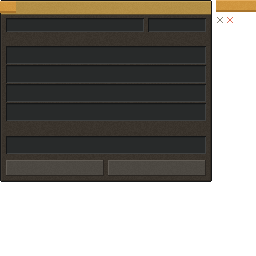
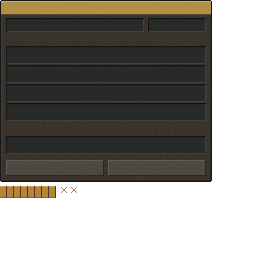
Trade Bot: picking fixes from play-testing
- Chests no longer open while picking: the server takes the picker's
  clicks over (TradeBotPicking) instead of relying on a client-side cancel
- A second click makes a container the output only if there isn't one;
  otherwise it unlinks
- Charge gauge: sprites moved below the screen on the sheet (the fill had
  wrapped onto the brass band), segmented fill, percentage in the status line

diff --git a/design/gui/trade-bot-station.gui.js b/design/gui/trade-bot-station.gui.js
@@ -72,12 +72,18 @@ L.rows.forEach(recess);
 recess(L.output);
 L.buttons.forEach(button);
 
-// the sprites the screen draws on top, to the right of the background: the charge gauge fill (amber, 56 x 12),
-// and the unlink cross (8 x 8, normal and hovered)
-for (let j = 0; j < 12; j++) for (let i = 0; i < 56; i++) set(W + 4 + i, j, j === 0 ? '#e6b062' : j > 9 ? '#a8742c' : pick(['#d0963f', '#d39a43', '#cf943d']));
+// the sprites the screen draws on top, below the screen on the sheet (y = H + 4): the charge gauge fill (56 x 12,
+// segmented muted amber), and the unlink cross (8 x 8, normal and hovered)
+const SY = H + 4;
+const GAUGE_FILL = ['#b88437', '#bc883a', '#b5813a'], GAUGE_TOP = '#d0a15a', GAUGE_BOTTOM = '#8a6229', GAUGE_GAP = '#4a3a22';
+for (let j = 0; j < 12; j++)
+  for (let i = 0; i < 56; i++) {
+    const gap = i % 7 === 6; // eight segments
+    set(i, SY + j, gap ? GAUGE_GAP : j === 0 ? GAUGE_TOP : j === 11 ? GAUGE_BOTTOM : pick(GAUGE_FILL));
+  }
 const cross = (ox, oy, c) => { for (let k = 1; k < 7; k++) { set(ox + k, oy + k, c); set(ox + 7 - k, oy + k, c); } };
-cross(W + 4, 16, '#8a8478');
-cross(W + 14, 16, '#e0705a');
+cross(60, SY, '#8a8478');
+cross(70, SY, '#e0705a');
 
 const out = process.argv[2] || path.join(__dirname, 'trade_bot_station.png');
 const crcT = new Uint32Array(256).map((_, n) => { let c = n; for (let k = 0; k < 8; k++) c = c & 1 ? 0xedb88320 ^ (c >>> 1) : c >>> 1; return c >>> 0; });

diff --git a/src/main/java/com/comedymonkey/createaddons/content/tradebot/TradeBotPicking.java b/src/main/java/com/comedymonkey/createaddons/content/tradebot/TradeBotPicking.java
@@ -1,0 +1,109 @@
+package com.comedymonkey.createaddons.content.tradebot;
+
+import java.util.HashMap;
+import java.util.Map;
+import java.util.UUID;
+
+import org.jetbrains.annotations.Nullable;
+
+import com.comedymonkey.createaddons.config.CMConfig;
+
+import net.minecraft.core.BlockPos;
+import net.minecraft.network.chat.Component;
+import net.minecraft.resources.ResourceKey;
+import net.minecraft.server.level.ServerPlayer;
+import net.minecraft.world.InteractionHand;
+import net.minecraft.world.InteractionResult;
+import net.minecraft.world.level.Level;
+import net.neoforged.neoforge.event.entity.player.PlayerEvent;
+import net.neoforged.neoforge.event.entity.player.PlayerInteractEvent;
+
+/**
+ * Who is picking containers for which station, on the server (D61). While a player picks, their clicks on blocks
+ * are taken over here: right-click cycles the container's link, left-click unlinks it, so chests never open and
+ * nothing gets broken. Sneak-right-click or the station itself finishes; so do leaving his range, changing
+ * dimension, three idle minutes or logging out. (Cancelling only on the client isn't enough: the click still
+ * reaches the server.)
+ */
+public final class TradeBotPicking {
+	private static final long TIMEOUT_TICKS = 20 * 60 * 3;
+
+	private record Picker(BlockPos station, ResourceKey<Level> dimension, long lastUsed) {}
+
+	private static final Map<UUID, Picker> PICKERS = new HashMap<>();
+
+	private TradeBotPicking() {}
+
+	public static void start(ServerPlayer player, BlockPos station) {
+		PICKERS.put(player.getUUID(), new Picker(station.immutable(), player.level().dimension(), player.level().getGameTime()));
+	}
+
+	public static void stop(ServerPlayer player) {
+		PICKERS.remove(player.getUUID());
+	}
+
+	public static void clear() {
+		PICKERS.clear();
+	}
+
+	public static void onLogout(PlayerEvent.PlayerLoggedOutEvent event) {
+		PICKERS.remove(event.getEntity().getUUID());
+	}
+
+	public static void onRightClickBlock(PlayerInteractEvent.RightClickBlock event) {
+		if (!(event.getEntity() instanceof ServerPlayer player))
+			return;
+		Picker picker = current(player);
+		if (picker == null)
+			return;
+		event.setCanceled(true);
+		event.setCancellationResult(InteractionResult.SUCCESS);
+		if (event.getHand() != InteractionHand.MAIN_HAND)
+			return; // the event comes once per hand; act on one
+		touch(player, picker);
+		if (player.isShiftKeyDown() || event.getPos().equals(picker.station())) {
+			stop(player);
+			player.displayClientMessage(Component.translatable("message.comedymonkeysaddons.trade_bot.picking_done"), true);
+			return;
+		}
+		if (player.level().getBlockEntity(picker.station()) instanceof TradeBotStationBlockEntity station)
+			station.pick(player, event.getPos());
+	}
+
+	public static void onLeftClickBlock(PlayerInteractEvent.LeftClickBlock event) {
+		if (!(event.getEntity() instanceof ServerPlayer player))
+			return;
+		Picker picker = current(player);
+		if (picker == null)
+			return;
+		event.setCanceled(true);
+		if (event.getAction() != PlayerInteractEvent.LeftClickBlock.Action.START)
+			return;
+		touch(player, picker);
+		if (player.level().getBlockEntity(picker.station()) instanceof TradeBotStationBlockEntity station
+			&& station.roleOf(event.getPos()) != TradeBotLinks.Role.NONE)
+			station.handle(player, com.comedymonkey.createaddons.network.TradeBotStationPayload.Action.UNLINK, event.getPos());
+	}
+
+	/** The player's picking, if it's still going (same dimension, in range, not idle too long, station still there). */
+	@Nullable
+	private static Picker current(ServerPlayer player) {
+		Picker picker = PICKERS.get(player.getUUID());
+		if (picker == null)
+			return null;
+		int range = CMConfig.SERVER.tradeBotRange() + 16;
+		boolean valid = player.level().dimension() == picker.dimension()
+			&& player.level().getGameTime() - picker.lastUsed() <= TIMEOUT_TICKS
+			&& player.distanceToSqr(picker.station().getCenter()) <= (double) range * range
+			&& player.level().getBlockEntity(picker.station()) instanceof TradeBotStationBlockEntity;
+		if (!valid) {
+			stop(player);
+			return null;
+		}
+		return picker;
+	}
+
+	private static void touch(ServerPlayer player, Picker picker) {
+		PICKERS.put(player.getUUID(), new Picker(picker.station(), picker.dimension(), player.level().getGameTime()));
+	}
+}

diff --git a/src/main/java/com/comedymonkey/createaddons/client/tradebot/TradeBotLinkPicking.java b/src/main/java/com/comedymonkey/createaddons/client/tradebot/TradeBotLinkPicking.java
@@ -20,8 +20,9 @@ import net.neoforged.neoforge.network.PacketDistributor;
 /**
  * Picking containers for Trade Bot in the world (D61), started from his station screen's "Select containers": with
  * any hand, right-click a container to cycle it through takes from (cyan) and delivers to (amber) to unlinked, or
- * left-click to unlink it. The server checks and saves every click. Sneak-right-click, or right-click the station, to
- * finish; walking well out of his range or three idle minutes finish it too.
+ * left-click to unlink it. The server takes those clicks over and does the linking (TradeBotPicking); here they're
+ * cancelled too, so nothing opens or breaks even for a moment, and the links are outlined. Sneak-right-click, or
+ * right-click the station, to finish; walking well out of his range or three idle minutes finish it too.
  */
 public final class TradeBotLinkPicking {
 	private static final int TIMEOUT_TICKS = 20 * 60 * 3;
@@ -36,6 +37,7 @@ public final class TradeBotLinkPicking {
 	public static void start(BlockPos pos) {
 		station = pos.immutable();
 		idleTicks = 0;
+		PacketDistributor.sendToServer(new TradeBotStationPayload(station, TradeBotStationPayload.Action.START_PICKING, station));
 		hint();
 	}
 
@@ -54,12 +56,12 @@ public final class TradeBotLinkPicking {
 			return;
 		event.setCanceled(true);
 		event.setCancellationResult(InteractionResult.SUCCESS);
-		idleTicks = 0;
-		if (event.getEntity().isShiftKeyDown() || event.getPos().equals(station)) {
-			finish();
+		if (event.getHand() != net.minecraft.world.InteractionHand.MAIN_HAND)
 			return;
-		}
-		send(TradeBotStationPayload.Action.CYCLE, event.getPos());
+		idleTicks = 0;
+		// the server links it (or finishes, for sneak-right-click and the station); here it just finishes too
+		if (event.getEntity().isShiftKeyDown() || event.getPos().equals(station))
+			finish();
 	}
 
 	/** Left-click unlinks (and never breaks the container by accident while picking). */
@@ -67,11 +69,7 @@ public final class TradeBotLinkPicking {
 		if (station == null || !event.getLevel().isClientSide)
 			return;
 		event.setCanceled(true);
-		if (event.getAction() != PlayerInteractEvent.LeftClickBlock.Action.START)
-			return;
 		idleTicks = 0;
-		if (station() != null && station().roleOf(event.getPos()) != TradeBotLinks.Role.NONE)
-			send(TradeBotStationPayload.Action.UNLINK, event.getPos());
 	}
 
 	public static void onClientTick(ClientTickEvent.Post event) {
@@ -81,6 +79,7 @@ public final class TradeBotLinkPicking {
 		TradeBotStationBlockEntity be = station();
 		int range = CMConfig.SERVER.tradeBotRange() + 16;
 		if (be == null || mc.player == null || mc.player.distanceToSqr(station.getCenter()) > (double) range * range || ++idleTicks > TIMEOUT_TICKS) {
+			PacketDistributor.sendToServer(new TradeBotStationPayload(station, TradeBotStationPayload.Action.STOP_PICKING, station));
 			station = null;
 			return;
 		}
@@ -99,11 +98,6 @@ public final class TradeBotLinkPicking {
 	private static TradeBotStationBlockEntity station() {
 		Minecraft mc = Minecraft.getInstance();
 		return mc.level != null && station != null && mc.level.getBlockEntity(station) instanceof TradeBotStationBlockEntity be ? be : null;
-	}
-
-	private static void send(TradeBotStationPayload.Action action, BlockPos target) {
-		if (station != null)
-			PacketDistributor.sendToServer(new TradeBotStationPayload(station, action, target));
 	}
 
 	private static void hint() {

diff --git a/src/main/java/com/comedymonkey/createaddons/content/tradebot/TradeBotStationBlockEntity.java b/src/main/java/com/comedymonkey/createaddons/content/tradebot/TradeBotStationBlockEntity.java
@@ -165,7 +165,7 @@ public class TradeBotStationBlockEntity extends SmartBlockEntity implements IHav
 	/** One more click on {@code target} while picking: takes from, then delivers to, then unlinked. Returns the new role. */
 	TradeBotLinks.Role cycleLink(BlockPos target) {
 		boolean beltOnly = level != null && TradeBotLinks.outputOnly(level, target);
-		TradeBotLinks.Role next = TradeBotLinks.nextRole(roleOf(target), beltOnly, inputs.size(), MAX_INPUTS);
+		TradeBotLinks.Role next = TradeBotLinks.nextRole(roleOf(target), beltOnly, inputs.size(), MAX_INPUTS, output != null);
 		setRole(target, next);
 		return next;
 	}
@@ -196,22 +196,32 @@ public class TradeBotStationBlockEntity extends SmartBlockEntity implements IHav
 				setRole(target, TradeBotLinks.Role.NONE);
 				player.displayClientMessage(TradeBotLinks.describe(level, target, TradeBotLinks.Role.NONE), true);
 			}
-			case CYCLE -> {
-				// picked in the world: within the player's reach, his range from the station, and something that holds items
-				if (player.distanceToSqr(target.getCenter()) > 64)
-					return;
-				if (roleOf(target) == TradeBotLinks.Role.NONE && !TradeBotLinks.canLink(level, target)) {
-					player.displayClientMessage(Component.translatable("message.comedymonkeysaddons.trade_bot.link.not_a_container"), true);
-					return;
-				}
-				if (!TradeBotLinks.inRange(worldPosition, target)) {
-					player.displayClientMessage(Component.translatable("message.comedymonkeysaddons.trade_bot.link.too_far",
-						CMConfig.SERVER.tradeBotRange()), true);
-					return;
-				}
-				player.displayClientMessage(TradeBotLinks.describe(level, target, cycleLink(target)), true);
+			case START_PICKING -> {
+				if (player.distanceToSqr(worldPosition.getCenter()) <= 64)
+					TradeBotPicking.start(player, worldPosition);
 			}
+			case STOP_PICKING -> TradeBotPicking.stop(player);
 		}
+	}
+
+	/** A container clicked while picking (from {@link TradeBotPicking}): cycle its link, if it can be linked. */
+	void pick(ServerPlayer player, BlockPos target) {
+		if (level == null || !TradeBotOwnership.canControl(player, owner))
+			return;
+		if (roleOf(target) == TradeBotLinks.Role.NONE && !TradeBotLinks.canLink(level, target)) {
+			player.displayClientMessage(Component.translatable("message.comedymonkeysaddons.trade_bot.link.not_a_container"), true);
+			return;
+		}
+		if (!TradeBotLinks.inRange(worldPosition, target)) {
+			player.displayClientMessage(Component.translatable("message.comedymonkeysaddons.trade_bot.link.too_far", CMConfig.SERVER.tradeBotRange()), true);
+			return;
+		}
+		TradeBotLinks.Role before = roleOf(target);
+		TradeBotLinks.Role after = cycleLink(target);
+		if (before == TradeBotLinks.Role.NONE && after == TradeBotLinks.Role.NONE)
+			player.displayClientMessage(Component.translatable("message.comedymonkeysaddons.trade_bot.link.full"), true);
+		else
+			player.displayClientMessage(TradeBotLinks.describe(level, target, after), true);
 	}
 
 	void setRole(BlockPos target, TradeBotLinks.Role role) {

diff --git a/src/main/java/com/comedymonkey/createaddons/client/tradebot/TradeBotStationScreen.java b/src/main/java/com/comedymonkey/createaddons/client/tradebot/TradeBotStationScreen.java
@@ -37,8 +37,8 @@ public class TradeBotStationScreen extends AbstractSimiScreen {
 	private static final int[] ROW_Y = { 46, 65, 84, 103 };
 	private static final int OUTPUT_Y = 136, ROW_X = 6, ROW_W = 200;
 	private static final int BUTTON_Y = 160, BUTTON_W = 98, BUTTON_H = 16, SELECT_X = 6, HOME_X = 108;
-	/** Sprites to the right of the background: the gauge fill, and the unlink cross (normal, hovered). */
-	private static final int GAUGE_U = W + 4, CROSS_U = W + 4, CROSS_HOVER_U = W + 14, CROSS_V = 16;
+	/** Sprites below the background on the sheet: the segmented gauge fill, and the unlink cross (normal, hovered). */
+	private static final int SPRITES_V = H + 4, GAUGE_U = 0, CROSS_U = 60, CROSS_HOVER_U = 70;
 
 	private final BlockPos pos;
 
@@ -80,11 +80,12 @@ public class TradeBotStationScreen extends AbstractSimiScreen {
 		graphics.drawString(font, title, x + (W - font.width(title)) / 2, y + 3, GuiKit.TITLE, false);
 
 		// status and charge
+		// status on the left, his charge as a number on the right of the same line, and the gauge beside it
 		graphics.drawString(font, statusText(station), x + STATUS_X + 4, y + STATUS_Y + 3, GuiKit.TEXT, false);
 		float charge = Mth.clamp((float) station.botCharge() / CMConfig.SERVER.tradeBotFullCharge(), 0, 1);
-		graphics.blit(BACKGROUND, x + GAUGE_X + 1, y + GAUGE_Y + 1, GAUGE_U, 0, Math.round(GAUGE_W * charge), 12);
 		String percent = Math.round(charge * 100) + "%";
-		graphics.drawString(font, percent, x + GAUGE_X + 1 + (GAUGE_W - font.width(percent)) / 2, y + GAUGE_Y + 3, GuiKit.TEXT, true);
+		graphics.drawString(font, percent, x + GAUGE_X - 6 - font.width(percent), y + STATUS_Y + 3, GuiKit.LABEL, false);
+		graphics.blit(BACKGROUND, x + GAUGE_X + 1, y + GAUGE_Y + 1, GAUGE_U, SPRITES_V, Math.round(GAUGE_W * charge), 12);
 
 		// links
 		List<BlockPos> inputs = station.inputPositions();
@@ -117,7 +118,7 @@ public class TradeBotStationScreen extends AbstractSimiScreen {
 		String distance = String.format(Locale.ROOT, "%.0f m", Math.sqrt(target.distSqr(pos)));
 		graphics.drawString(font, distance, x + ROW_W - 20 - font.width(distance), y + 5, GuiKit.LABEL, false);
 		boolean hover = overCross(rowY, mouseX, mouseY);
-		graphics.blit(BACKGROUND, x + ROW_W - 14, y + 5, hover ? CROSS_HOVER_U : CROSS_U, CROSS_V, 8, 8);
+		graphics.blit(BACKGROUND, x + ROW_W - 14, y + 5, hover ? CROSS_HOVER_U : CROSS_U, SPRITES_V, 8, 8);
 		if (hover)
 			graphics.renderTooltip(font, tr("unlink"), mouseX, mouseY);
 	}

diff --git a/src/test/java/com/comedymonkey/createaddons/content/tradebot/TradeBotLinksTest.java b/src/test/java/com/comedymonkey/createaddons/content/tradebot/TradeBotLinksTest.java
@@ -26,16 +26,18 @@ class TradeBotLinksTest {
 	}
 
 	@Test
-	void clicksCycleTakesDeliversUnlinked() {
-		assertEquals(Role.TAKES, TradeBotLinks.nextRole(Role.NONE, false, 0, 4));
-		assertEquals(Role.DELIVERS, TradeBotLinks.nextRole(Role.TAKES, false, 1, 4));
-		assertEquals(Role.NONE, TradeBotLinks.nextRole(Role.DELIVERS, false, 0, 4));
+	void secondClickMakesTheOutputOnlyIfThereIsNone() {
+		assertEquals(Role.TAKES, TradeBotLinks.nextRole(Role.NONE, false, 0, 4, false));
+		assertEquals(Role.DELIVERS, TradeBotLinks.nextRole(Role.TAKES, false, 1, 4, false), "no output yet: it becomes the output");
+		assertEquals(Role.NONE, TradeBotLinks.nextRole(Role.TAKES, false, 1, 4, true), "there's an output: it unlinks");
+		assertEquals(Role.NONE, TradeBotLinks.nextRole(Role.DELIVERS, false, 0, 4, true));
 	}
 
 	@Test
-	void beltsAndAFifthContainerGoStraightToDelivers() {
-		assertEquals(Role.DELIVERS, TradeBotLinks.nextRole(Role.NONE, true, 0, 4), "belts only take deliveries");
-		assertEquals(Role.DELIVERS, TradeBotLinks.nextRole(Role.NONE, false, 4, 4), "four inputs already");
+	void beltsGoStraightToDeliversAndAFullStationTakesNoMore() {
+		assertEquals(Role.DELIVERS, TradeBotLinks.nextRole(Role.NONE, true, 0, 4, true), "belts only take deliveries");
+		assertEquals(Role.DELIVERS, TradeBotLinks.nextRole(Role.NONE, false, 4, 4, false), "four inputs, no output");
+		assertEquals(Role.NONE, TradeBotLinks.nextRole(Role.NONE, false, 4, 4, true), "four inputs and an output");
 	}
 
 	@Test

diff --git a/src/main/java/com/comedymonkey/createaddons/ComedyMonkeysCreateAddons.java b/src/main/java/com/comedymonkey/createaddons/ComedyMonkeysCreateAddons.java
@@ -34,6 +34,7 @@ import com.comedymonkey.createaddons.registry.ModSounds;
 import com.comedymonkey.createaddons.registry.ModEntities;
 import com.comedymonkey.createaddons.registry.ModDataComponents;
 import com.comedymonkey.createaddons.content.tradebot.TradeBotCommands;
+import com.comedymonkey.createaddons.content.tradebot.TradeBotPicking;
 import com.comedymonkey.createaddons.gametest.TradeBotGameTests;
 import com.simibubi.create.api.stress.BlockStressValues;
 import com.simibubi.create.foundation.item.ItemDescription;
@@ -89,6 +90,11 @@ public class ComedyMonkeysCreateAddons {
 		// Trade Bot's test courses (run with ./gradlew runGameTestServer, or /test in a dev world)
 		modBus.addListener(TradeBotGameTests::register);
 		NeoForge.EVENT_BUS.addListener(TradeBotCommands::register);
+		// picking containers for Trade Bot: the server takes over the picker's clicks on blocks
+		NeoForge.EVENT_BUS.addListener(TradeBotPicking::onRightClickBlock);
+		NeoForge.EVENT_BUS.addListener(TradeBotPicking::onLeftClickBlock);
+		NeoForge.EVENT_BUS.addListener(TradeBotPicking::onLogout);
+		NeoForge.EVENT_BUS.addListener((ServerStoppedEvent event) -> TradeBotPicking.clear());
 
 		// Both specs show up in Create's "Access configs of other mods" screen
 		container.registerConfig(ModConfig.Type.SERVER, CMConfig.SERVER_SPEC);

diff --git a/src/main/java/com/comedymonkey/createaddons/content/tradebot/TradeBotLinks.java b/src/main/java/com/comedymonkey/createaddons/content/tradebot/TradeBotLinks.java
@@ -41,11 +41,15 @@ public final class TradeBotLinks {
 		return station.distSqr(target) <= (double) range * range;
 	}
 
-	/** The role after one more click, given the current role and how many inputs are already taken. */
-	public static Role nextRole(Role current, boolean outputOnly, int inputs, int maxInputs) {
+	/**
+	 * The role after one more click: first takes from; a second click makes it the output only if there isn't one yet,
+	 * otherwise unlinks it; a third unlinks the output. Belts go straight to delivers to. With four inputs already, a new
+	 * container can only become the output (if there's none), and stays unlinked otherwise.
+	 */
+	public static Role nextRole(Role current, boolean outputOnly, int inputs, int maxInputs, boolean hasOutput) {
 		return switch (current) {
-			case NONE -> outputOnly || inputs >= maxInputs ? Role.DELIVERS : Role.TAKES;
-			case TAKES -> Role.DELIVERS;
+			case NONE -> outputOnly ? Role.DELIVERS : inputs < maxInputs ? Role.TAKES : hasOutput ? Role.NONE : Role.DELIVERS;
+			case TAKES -> hasOutput ? Role.NONE : Role.DELIVERS;
 			case DELIVERS -> Role.NONE;
 		};
 	}

diff --git a/src/main/java/com/comedymonkey/createaddons/network/TradeBotStationPayload.java b/src/main/java/com/comedymonkey/createaddons/network/TradeBotStationPayload.java
@@ -12,11 +12,11 @@ import net.minecraft.server.level.ServerPlayer;
 import net.neoforged.neoforge.network.handling.IPayloadContext;
 
 /**
- * Client to server: something done to Trade Bot's station from its screen or while picking containers (D61): cycle a
- * container's link, unlink it, or call him home. The station checks the owner, the range and the container.
+ * Client to server: something done from Trade Bot's station screen (D61): start or stop picking containers (the
+ * clicks themselves are handled on the server, see TradeBotPicking), unlink a container, or call him home.
  */
 public record TradeBotStationPayload(BlockPos station, Action action, BlockPos target) implements CustomPacketPayload {
-	public enum Action { CYCLE, UNLINK, CALL_HOME }
+	public enum Action { START_PICKING, STOP_PICKING, UNLINK, CALL_HOME }
 
 	public static final Type<TradeBotStationPayload> TYPE = new Type<>(ComedyMonkeysCreateAddons.asResource("trade_bot_station"));
 	public static final StreamCodec<ByteBuf, TradeBotStationPayload> STREAM_CODEC = StreamCodec.composite(

diff --git a/design/specs/trade-bot.md b/design/specs/trade-bot.md
@@ -69,7 +69,7 @@ Clarified: **a clockwork robot, powered by FE through his station, who sells you
 | D58 | Comparator | Strengths: **0** no bot, **5** docked and idle, **10** working, **15** out of charge (refines D38) | user R12 |
 | D59 | Lava and void | If he's wound down in lava, or falls into the void, he's **returned to his station, still wound down**, so he's never lost or stuck burning | user R12 |
 | D60 | Doors and gates | He **closes the doors and fence gates he opened** once he's through; ones that were already open stay open (refines D28) | user R13 |
-| D61 | Linking (refines D19) | **Right-click the station** for its screen (status, charge, links with an ✕ to unlink; **Select containers**, **Call home**). **Select containers** starts Create Mechanical Arm-style picking in the world: right-click a container to cycle **takes from** (cyan outline) → **delivers to** (amber) → cleared; belts can only be the output. Picking uses any hand (no item needed): **left-click unlinks**; a hint line shows above the hotbar. Sneak-right-click or the station again to finish | user R14 |
+| D61 | Linking (refines D19) | **Right-click the station** for its screen (status, charge, links with an ✕ to unlink; **Select containers**, **Call home**). **Select containers** starts Create Mechanical Arm-style picking in the world: right-click a container: the first click makes it **takes from** (cyan outline); a second makes it **delivers to** (amber) if there's no output yet, or unlinks it if there is; a click on the output unlinks it. Belts can only be the output. Chests never open while picking (the server takes the clicks over). Picking uses any hand (no item needed): **left-click unlinks**; a hint line shows above the hotbar. Sneak-right-click or the station again to finish | user R14 |
 
 ## Open Questions
 None for v1.
